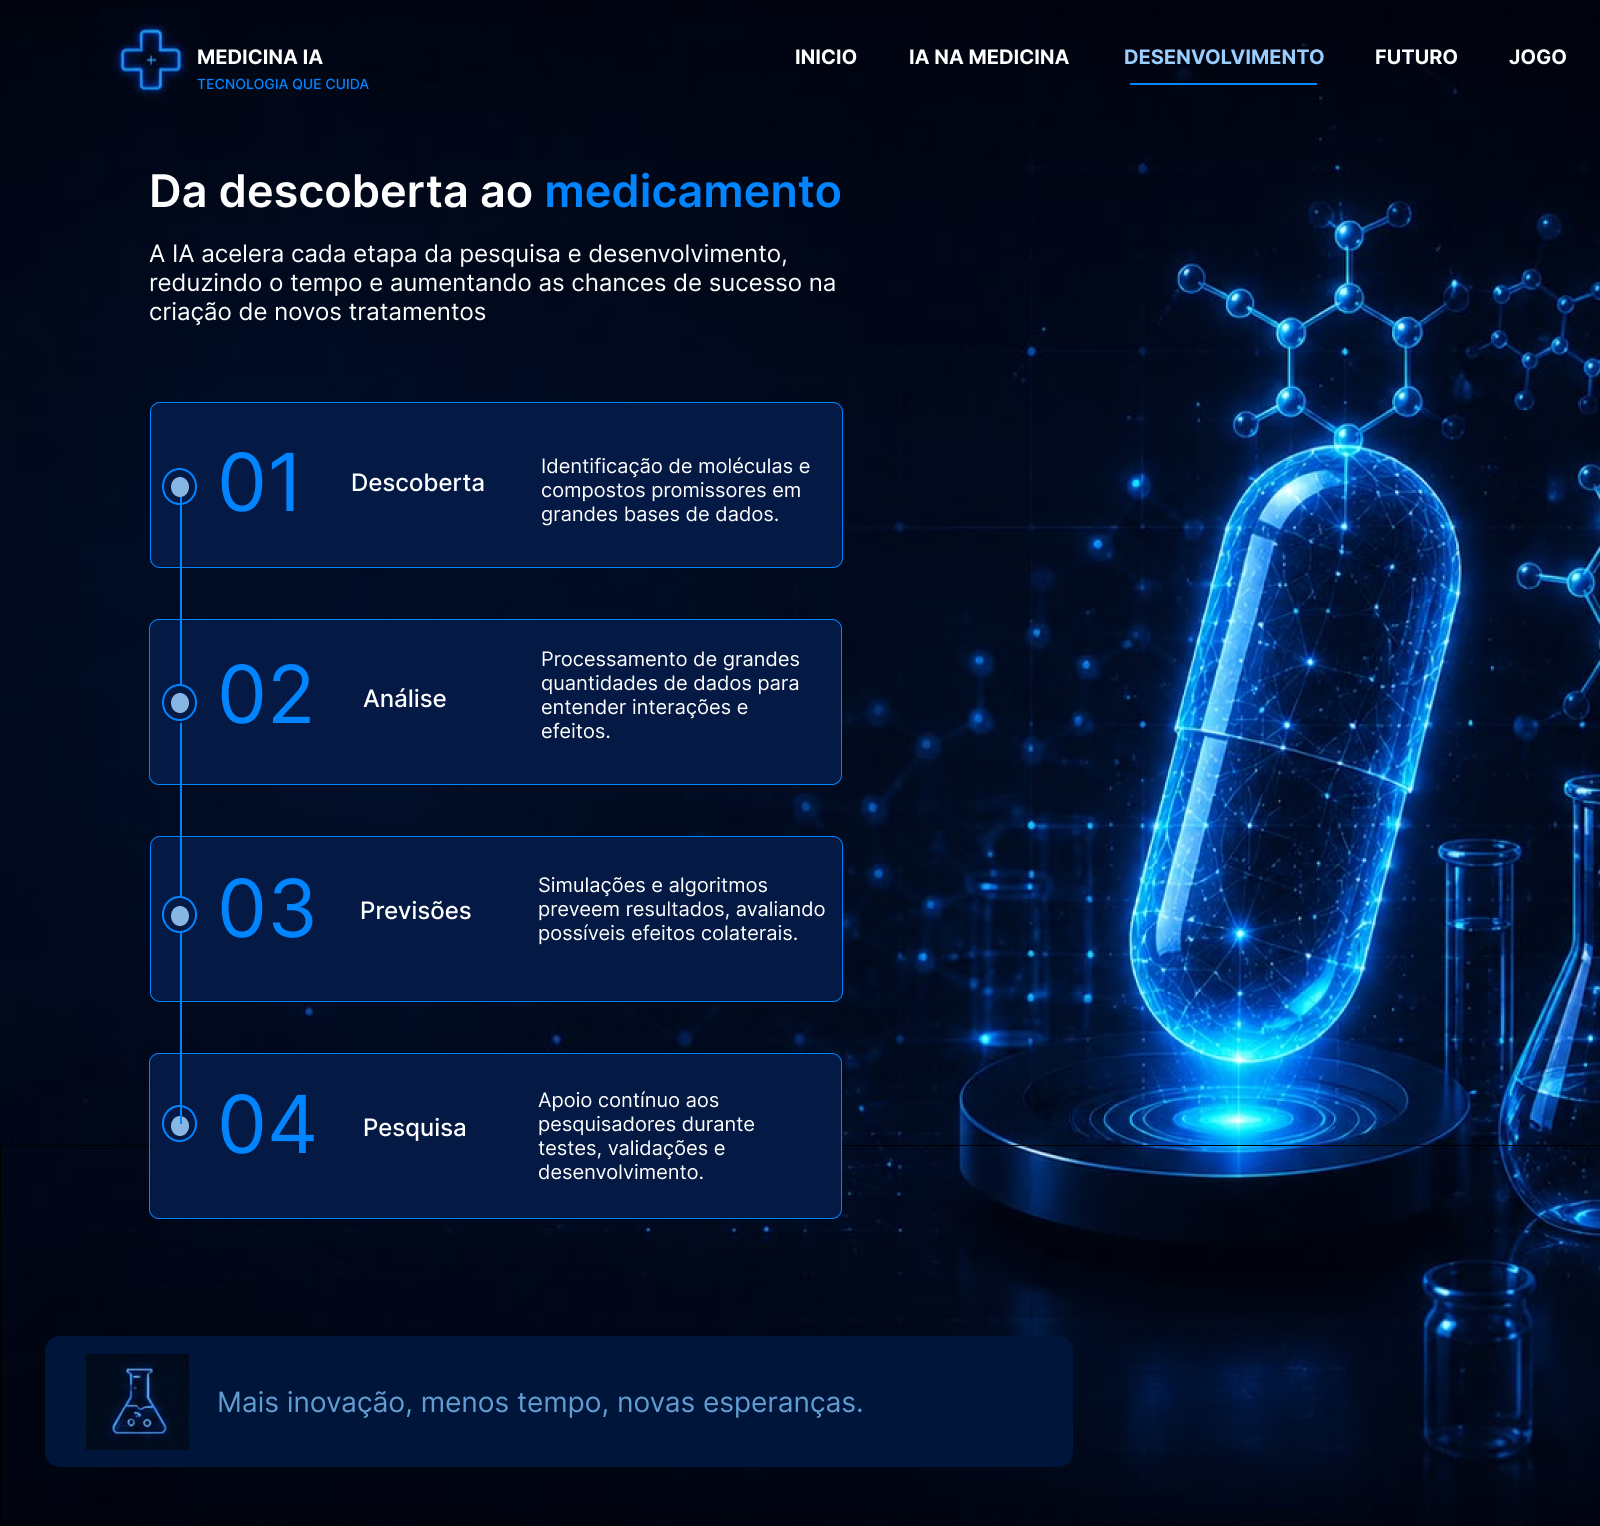
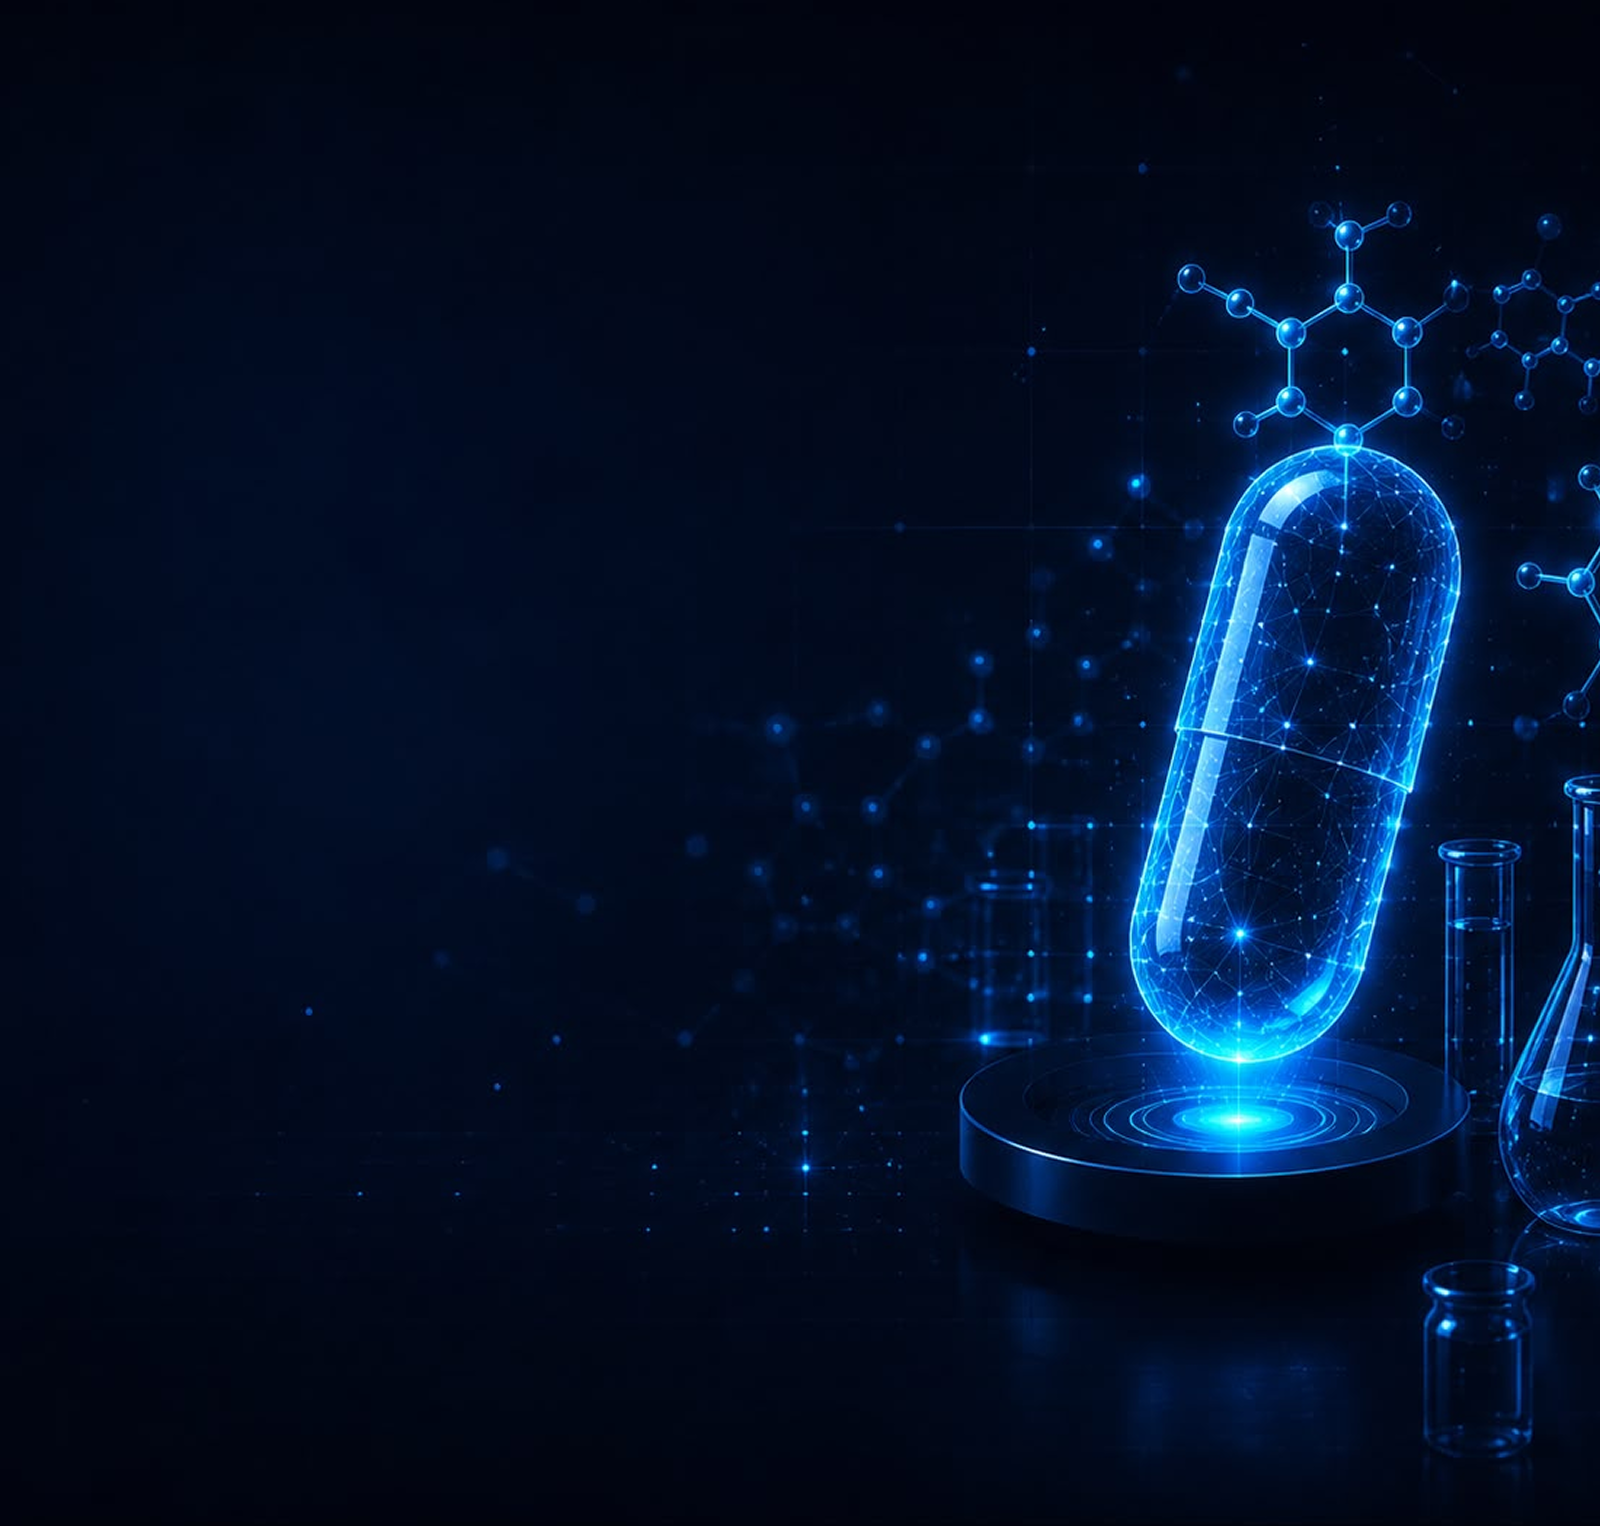
ajustei o fundo da pagina desenvolvimento pra cobrir tudo

diff --git a/estilo3.css b/estilo3.css
@@ -62,8 +62,8 @@ body {
 .conteudo-principal {
     padding: 60px 60px 80px 60px;
     background-image: url('imagens/medicamento fundo.png');
-    background-size: 600px;
-    background-position: right center;
+    background-size: cover;
+    background-position: center;
     background-repeat: no-repeat;
     min-height: 800px;
 }
@@ -124,7 +124,10 @@ body {
     align-items: center;
     gap: 20px;
     margin-top: 50px;
-    max-width: 600px;
+    max-width: 700px;
+    background-color: rgba(0, 30, 60, 0.7);
+    padding: 25px 35px;
+    border-radius: 15px;
 }
 
 .rodape-texto p {
